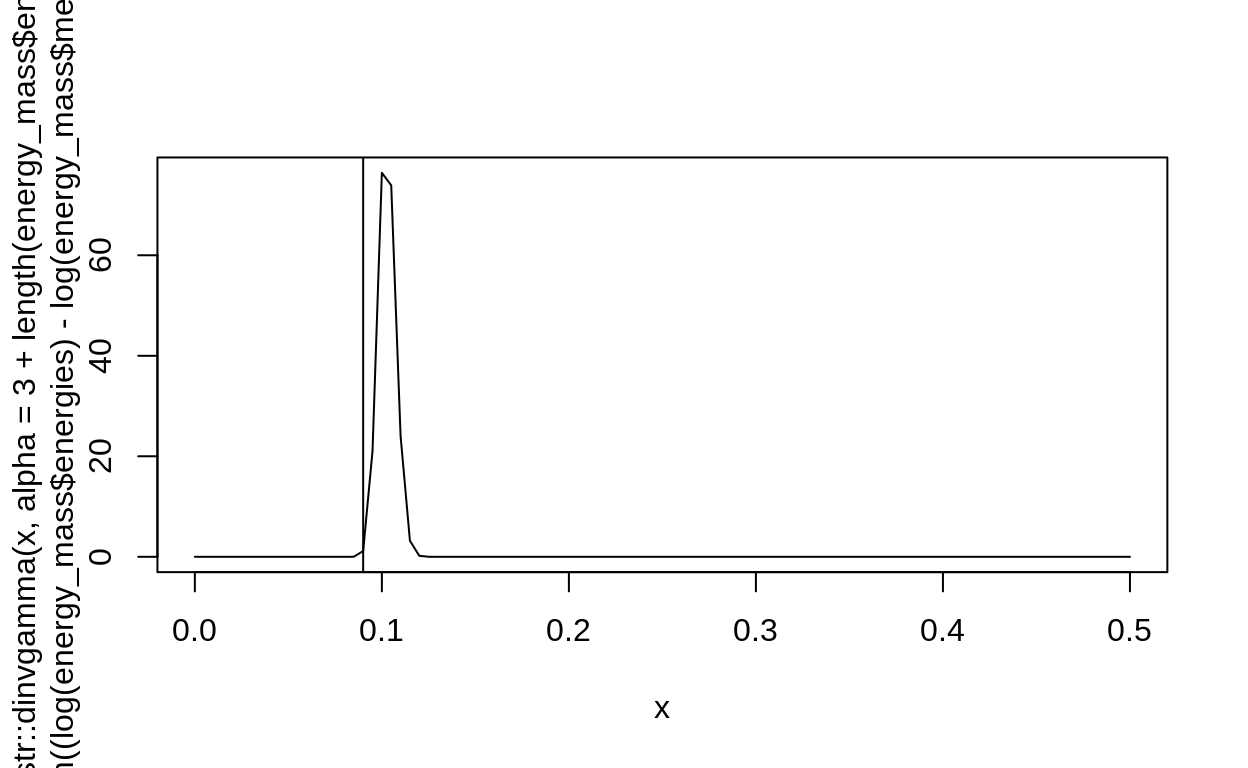
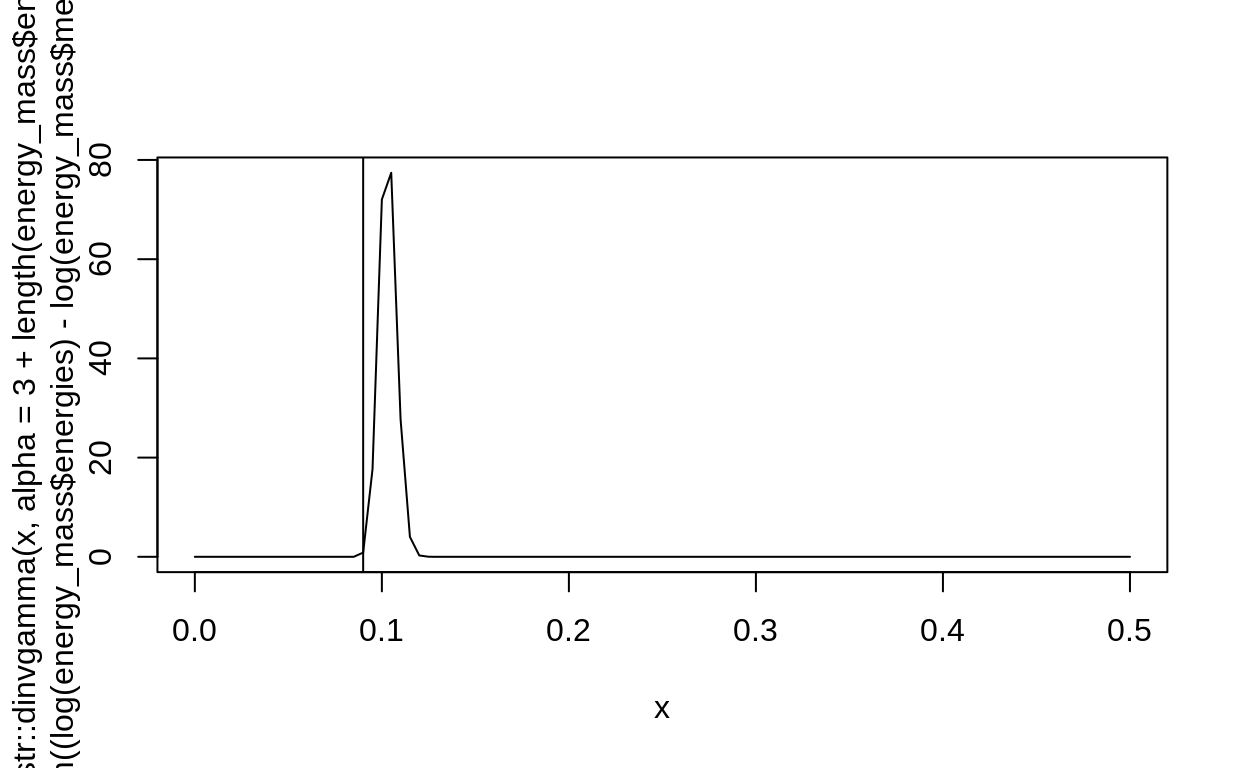
Deploying to gh-pages from @ bios2/biodiversity_modelling_2021@e173fc56fdc940f32ee7ac0645c6365697cf4bf8 🚀

diff --git a/gibbs_review.html b/gibbs_review.html
@@ -2427,9 +2427,8 @@ code span.wa { color: #5e5e5e; font-style: italic; } /* Warning */
 <li><a href="#metropolis-in-gibbs">Metropolis-in-Gibbs</a><ul>
 <li><a href="#simulating-metabolic-data">Simulating metabolic data</a></li>
 <li><a href="#setting-up-the-three-sampling-approaches">Setting up the three sampling approaches</a></li>
-<li><a href="#b-the-metropolis-algorithm"><span class="math inline">\(b\)</span>: the Metropolis algorithm</a></li>
-<li><a href="#c-the-metropolis-hastings-algorithm"><span class="math inline">\(c\)</span>: the Metropolis-Hastings algorithm</a></li>
 <li><a href="#combine-all-three">Combine all three</a></li>
+<li><a href="#posterior-plots-to-check-your-model">Posterior plots to check your model</a></li>
 </ul></li>
 </ul></li>
 <li><a href="#bonus-zone">Bonus Zone</a><ul>
@@ -3378,6 +3377,70 @@ c &amp;\sim \text{gamma}\left(\frac{3^2}{2^2}, \frac{3}{2^2}\right) \\
 \end{align}
 \]</span></p>
 <p>Here is a quick simulation to demonstrate (explore on your own if you want!):</p>
+<div class="layout-chunk" data-layout="l-body">
+<div class="sourceCode">
+<pre class="sourceCode r"><code class="sourceCode r"><span class='co'># constant mean</span>
+<span class='va'>truemean</span> <span class='op'>&lt;-</span> <span class='fl'>60</span>
+<span class='va'>sig</span> <span class='op'>&lt;-</span> <span class='fl'>.6</span>
+
+<span class='va'>ff</span> <span class='op'>&lt;-</span> <span class='fu'><a href='https://rdrr.io/r/stats/Lognormal.html'>rlnorm</a></span><span class='op'>(</span><span class='fl'>1000</span>,
+             meanlog <span class='op'>=</span> <span class='fu'><a href='https://rdrr.io/r/base/Log.html'>log</a></span><span class='op'>(</span><span class='va'>truemean</span><span class='op'>)</span>, 
+             sdlog <span class='op'>=</span> <span class='va'>sig</span><span class='op'>)</span>
+
+<span class='va'>ff</span> <span class='op'>%&gt;%</span> <span class='va'>median</span>
+
+<span class='fu'><a href='https://rdrr.io/r/stats/sd.html'>sd</a></span><span class='op'>(</span><span class='va'>ff</span><span class='op'>)</span>
+
+<span class='fu'><a href='https://rdrr.io/r/graphics/curve.html'>curve</a></span><span class='op'>(</span><span class='fu'>extraDistr</span><span class='fu'>::</span><span class='fu'><a href='https://rdrr.io/pkg/extraDistr/man/InvGamma.html'>dinvgamma</a></span><span class='op'>(</span><span class='va'>x</span>, 
+                            alpha <span class='op'>=</span> <span class='fl'>3</span> <span class='op'>+</span> <span class='fu'><a href='https://rdrr.io/r/base/length.html'>length</a></span><span class='op'>(</span><span class='va'>ff</span><span class='op'>)</span><span class='op'>/</span><span class='fl'>2</span>,
+                            beta <span class='op'>=</span> <span class='fl'>4</span> <span class='op'>+</span> <span class='fu'><a href='https://rdrr.io/r/base/sum.html'>sum</a></span><span class='op'>(</span> <span class='op'>(</span><span class='fu'><a href='https://rdrr.io/r/base/Log.html'>log</a></span><span class='op'>(</span><span class='va'>ff</span><span class='op'>)</span> <span class='op'>-</span> <span class='fu'><a href='https://rdrr.io/r/base/Log.html'>log</a></span><span class='op'>(</span><span class='va'>truemean</span><span class='op'>)</span><span class='op'>)</span><span class='op'>^</span><span class='fl'>2</span> <span class='op'>)</span> <span class='op'>/</span> <span class='fl'>2</span><span class='op'>)</span>,
+      xlim <span class='op'>=</span> <span class='fu'><a href='https://rdrr.io/r/base/c.html'>c</a></span><span class='op'>(</span><span class='fl'>0</span>,<span class='fl'>1</span><span class='op'>)</span>
+      <span class='co'># add = TRUE</span>
+<span class='op'>)</span>
+<span class='fu'><a href='https://rdrr.io/r/graphics/abline.html'>abline</a></span><span class='op'>(</span>v <span class='op'>=</span> <span class='va'>sig</span><span class='op'>^</span><span class='fl'>2</span>, col <span class='op'>=</span> <span class='st'>"red"</span><span class='op'>)</span>
+
+<span class='co'>## moving mean</span>
+
+<span class='va'>x</span> <span class='op'>&lt;-</span> <span class='fu'><a href='https://rdrr.io/r/stats/Uniform.html'>runif</a></span><span class='op'>(</span><span class='fl'>1000</span>, <span class='fl'>0</span>, <span class='fl'>3</span><span class='op'>)</span>
+
+<span class='va'>truemean2</span> <span class='op'>&lt;-</span> <span class='va'>x</span><span class='op'>*</span><span class='fl'>3</span>
+
+<span class='va'>ff2</span> <span class='op'>&lt;-</span> <span class='fu'><a href='https://rdrr.io/r/stats/Lognormal.html'>rlnorm</a></span><span class='op'>(</span><span class='fl'>1000</span>,
+             meanlog <span class='op'>=</span> <span class='fu'><a href='https://rdrr.io/r/base/Log.html'>log</a></span><span class='op'>(</span><span class='va'>truemean</span><span class='op'>)</span>, 
+             sdlog <span class='op'>=</span> <span class='va'>sig</span><span class='op'>)</span>
+
+<span class='fu'><a href='https://rdrr.io/r/graphics/plot.default.html'>plot</a></span><span class='op'>(</span><span class='va'>x</span>, <span class='va'>ff2</span><span class='op'>)</span>
+
+<span class='fu'><a href='https://rdrr.io/r/graphics/curve.html'>curve</a></span><span class='op'>(</span><span class='fu'>extraDistr</span><span class='fu'>::</span><span class='fu'><a href='https://rdrr.io/pkg/extraDistr/man/InvGamma.html'>dinvgamma</a></span><span class='op'>(</span><span class='va'>x</span>, 
+                            alpha <span class='op'>=</span> <span class='fl'>3</span> <span class='op'>+</span> <span class='fu'><a href='https://rdrr.io/r/base/length.html'>length</a></span><span class='op'>(</span><span class='va'>ff2</span><span class='op'>)</span><span class='op'>/</span><span class='fl'>2</span>,
+                            beta <span class='op'>=</span> <span class='fl'>4</span> <span class='op'>+</span> <span class='fu'><a href='https://rdrr.io/r/base/sum.html'>sum</a></span><span class='op'>(</span> <span class='op'>(</span><span class='fu'><a href='https://rdrr.io/r/base/Log.html'>log</a></span><span class='op'>(</span><span class='va'>ff2</span><span class='op'>)</span> <span class='op'>-</span> <span class='fu'><a href='https://rdrr.io/r/base/Log.html'>log</a></span><span class='op'>(</span><span class='va'>truemean2</span><span class='op'>)</span><span class='op'>)</span><span class='op'>^</span><span class='fl'>2</span> <span class='op'>)</span> <span class='op'>/</span> <span class='fl'>2</span><span class='op'>)</span>,
+      xlim <span class='op'>=</span> <span class='fu'><a href='https://rdrr.io/r/base/c.html'>c</a></span><span class='op'>(</span><span class='fl'>0</span>,<span class='fl'>1</span><span class='op'>)</span>
+      <span class='co'># add = TRUE</span>
+<span class='op'>)</span>
+
+<span class='fu'><a href='https://rdrr.io/r/graphics/abline.html'>abline</a></span><span class='op'>(</span>v <span class='op'>=</span> <span class='va'>sig</span><span class='op'>^</span><span class='fl'>2</span>, col <span class='op'>=</span> <span class='st'>"red"</span><span class='op'>)</span>
+
+<span class='co'># nonlinear</span>
+<span class='va'>truemean3</span> <span class='op'>&lt;-</span> <span class='fl'>3</span><span class='op'>*</span><span class='va'>x</span><span class='op'>^</span><span class='fl'>.7</span>
+
+<span class='va'>ff3</span> <span class='op'>&lt;-</span> <span class='fu'><a href='https://rdrr.io/r/stats/Lognormal.html'>rlnorm</a></span><span class='op'>(</span><span class='fl'>1000</span>,
+             meanlog <span class='op'>=</span> <span class='fu'><a href='https://rdrr.io/r/base/Log.html'>log</a></span><span class='op'>(</span><span class='va'>truemean3</span><span class='op'>)</span>, 
+             sdlog <span class='op'>=</span> <span class='va'>sig</span><span class='op'>)</span>
+
+<span class='fu'><a href='https://rdrr.io/r/graphics/plot.default.html'>plot</a></span><span class='op'>(</span><span class='va'>x</span>, <span class='va'>ff3</span><span class='op'>)</span>
+
+
+<span class='fu'><a href='https://rdrr.io/r/graphics/curve.html'>curve</a></span><span class='op'>(</span><span class='fu'>extraDistr</span><span class='fu'>::</span><span class='fu'><a href='https://rdrr.io/pkg/extraDistr/man/InvGamma.html'>dinvgamma</a></span><span class='op'>(</span><span class='va'>x</span>, 
+                            alpha <span class='op'>=</span> <span class='fl'>3</span> <span class='op'>+</span> <span class='fu'><a href='https://rdrr.io/r/base/length.html'>length</a></span><span class='op'>(</span><span class='va'>ff3</span><span class='op'>)</span><span class='op'>/</span><span class='fl'>2</span>,
+                            beta <span class='op'>=</span> <span class='fl'>4</span> <span class='op'>+</span> <span class='fu'><a href='https://rdrr.io/r/base/sum.html'>sum</a></span><span class='op'>(</span> <span class='op'>(</span><span class='fu'><a href='https://rdrr.io/r/base/Log.html'>log</a></span><span class='op'>(</span><span class='va'>ff3</span><span class='op'>)</span> <span class='op'>-</span> <span class='fu'><a href='https://rdrr.io/r/base/Log.html'>log</a></span><span class='op'>(</span><span class='va'>truemean3</span><span class='op'>)</span><span class='op'>)</span><span class='op'>^</span><span class='fl'>2</span> <span class='op'>)</span> <span class='op'>/</span> <span class='fl'>2</span><span class='op'>)</span>,
+      xlim <span class='op'>=</span> <span class='fu'><a href='https://rdrr.io/r/base/c.html'>c</a></span><span class='op'>(</span><span class='fl'>0</span>,<span class='fl'>1</span><span class='op'>)</span>
+      <span class='co'># add = TRUE</span>
+<span class='op'>)</span>
+
+<span class='fu'><a href='https://rdrr.io/r/graphics/abline.html'>abline</a></span><span class='op'>(</span>v <span class='op'>=</span> <span class='va'>sig</span><span class='op'>^</span><span class='fl'>2</span>, col <span class='op'>=</span> <span class='st'>"red"</span><span class='op'>)</span>
+</code></pre>
+</div>
+</div>
 <p>So we simply need a function that takes the “known” value of <span class="math inline">\(\alpha\)</span> and returns a sample from the posterior for <span class="math inline">\(\beta\)</span></p>
 <div class="layout-chunk" data-layout="l-body">
 <div class="sourceCode">
@@ -3460,7 +3523,7 @@ c &amp;\sim \text{gamma}\left(\frac{3^2}{2^2}, \frac{3}{2^2}\right) \\
 </div>
 <p><img src="gibbs_review_files/figure-html5/unnamed-chunk-36-5.png" width="624" /></p>
 </div>
-<h3 id="b-the-metropolis-algorithm"><span class="math inline">\(b\)</span>: the Metropolis algorithm</h3>
+<h4 id="b-the-metropolis-algorithm"><span class="math inline">\(b\)</span>: the Metropolis algorithm</h4>
 <p>Because <span class="math inline">\(b\)</span> is modeled on the logit scale, we can use a symmetrical prior and a symmetrical proposal distribution. This means we don’t need the Metropolis-Hastings correction for asymmetrical proposals.</p>
 <p>Here we assume that <span class="math inline">\(c\)</span> (<code>constant</code>) and <span class="math inline">\(\beta\)</span> (<code>beta</code>) are known.</p>
 <div class="layout-chunk" data-layout="l-body">
@@ -3503,7 +3566,7 @@ c &amp;\sim \text{gamma}\left(\frac{3^2}{2^2}, \frac{3}{2^2}\right) \\
           log_prior <span class='op'>=</span> <span class='va'>log_prior_exponent</span><span class='op'>)</span>
 </code></pre>
 </div>
-<pre><code>[1] -14273.44</code></pre>
+<pre><code>[1] -14305.98</code></pre>
 </div>
 <p>We need a function to calculate the metropolis acceptance probability. Note that I’ve changed this from above – instead of calculating the numerator INSIDE this function, now I’m assuming we already calculated the values for the new (proposal) numerator and the old (previous iteration) numerator. As a reminder, the “numerator” refers to the numerator of Bayes formula: the likelihood of the data multiplied by the prior.</p>
 <div class="layout-chunk" data-layout="l-body">
@@ -3552,7 +3615,7 @@ c &amp;\sim \text{gamma}\left(\frac{3^2}{2^2}, \frac{3}{2^2}\right) \\
 <span class='fu'>Metropolis_accept_probability</span><span class='op'>(</span>new_numerator <span class='op'>=</span> <span class='va'>new_demo</span>, old_numerator <span class='op'>=</span> <span class='va'>old_demo</span><span class='op'>)</span>
 </code></pre>
 </div>
-<pre><code>[1] 0.6530948</code></pre>
+<pre><code>[1] 0.3477613</code></pre>
 </div>
 <div class="layout-chunk" data-layout="l-body">
 <div class="sourceCode">
@@ -3604,7 +3667,7 @@ c &amp;\sim \text{gamma}\left(\frac{3^2}{2^2}, \frac{3}{2^2}\right) \\
 </code></pre>
 </div>
 </div>
-<h3 id="c-the-metropolis-hastings-algorithm"><span class="math inline">\(c\)</span>: the Metropolis-Hastings algorithm</h3>
+<h4 id="c-the-metropolis-hastings-algorithm"><span class="math inline">\(c\)</span>: the Metropolis-Hastings algorithm</h4>
 <p>This is going to be the same as above, with one addition. Here we need to use an asymmetrical proposal distribution and also add a correction for it! I’ve copied this code down from the “Code for Metropolis” section above. Reread that section for more details!</p>
 <div class="layout-chunk" data-layout="l-body">
 <div class="sourceCode">
@@ -3701,7 +3764,7 @@ c &amp;\sim \text{gamma}\left(\frac{3^2}{2^2}, \frac{3}{2^2}\right) \\
                                       correction <span class='op'>=</span> <span class='va'>correction</span><span class='op'>)</span>
 </code></pre>
 </div>
-<pre><code>[1] 7.560613e-14</code></pre>
+<pre><code>[1] 1.426311e-09</code></pre>
 </div>
 <p>Let’s wrap up all the steps of the Metropolis Hastings process into one function:</p>
 <div class="layout-chunk" data-layout="l-body">
@@ -3817,9 +3880,12 @@ c &amp;\sim \text{gamma}\left(\frac{3^2}{2^2}, \frac{3}{2^2}\right) \\
 </div>
 <p>Here are a few thoughts on this process:</p>
 <ul>
-<li>samplers are rather sensitive to things like starting values, tuning parameters, prior choice etc. What adjustments could you make to this to improve the algorithm? * I chose a VERY large sample size because I want to think about the algorithm itself. What happens if we choose a more realistic sample size?</li>
+<li>samplers are rather sensitive to things like starting values, tuning parameters, prior choice, model structure etc. What adjustments could you make to this to improve the algorithm?</li>
+<li>I chose a VERY large sample size because I want to think about the algorithm itself. What happens if we choose a more realistic sample size?</li>
 </ul>
-<p>Let’s plot this posterior to see how it behaves. Specifically, lets see what kind of lines it thinks are reasonable.</p>
+<h3 id="posterior-plots-to-check-your-model">Posterior plots to check your model</h3>
+<p>We don’t have space in this already LONG document to cover the whole story of how to work with a posterior distribution. This includes things like: * making predictions to see if your model is working well * plotting averages or regression lines * making predictions for the results of some manipulation (future projection, adding or removing a treatment) * calculating quantities of interest to look at their values (e.g. is the difference between two groups large or small? how sure are we?)</p>
+<p>But I do want to show one quick thing we can do with this model: let’s plot the average line, aka the “fitted” values. This shows us what kinds of curvy lines the model thinks are “reasonable”.</p>
 <div class="layout-chunk" data-layout="l-body">
 <div class="sourceCode">
 <pre class="sourceCode r"><code class="sourceCode r"><span class='va'>gibbs_df</span> <span class='op'>&lt;-</span> <span class='va'>gibbs_chain</span> <span class='op'>%&gt;%</span> <span class='fu'>as_tibble</span><span class='op'>(</span><span class='op'>)</span> <span class='op'>%&gt;%</span> 
@@ -3840,6 +3906,7 @@ c &amp;\sim \text{gamma}\left(\frac{3^2}{2^2}, \frac{3}{2^2}\right) \\
 </div>
 <p>The lines are reasonably close to the true values (though not quite) and the plot looks pretty good.</p>
 <h1 id="bonus-zone">Bonus Zone</h1>
+<p>some more material that I either cut, streamlined, or didn’t have the time to get to! enjoy if you like :)</p>
 <h2 id="conjugate-priors-metropolis-hastings-and-penguins">Conjugate priors, Metropolis-Hastings, and Penguins</h2>
 <h3 id="proof-of-beta-binomial-conjugate-pair">Proof of Beta &amp; Binomial conjugate pair</h3>
 <p><span class="math display">\[
